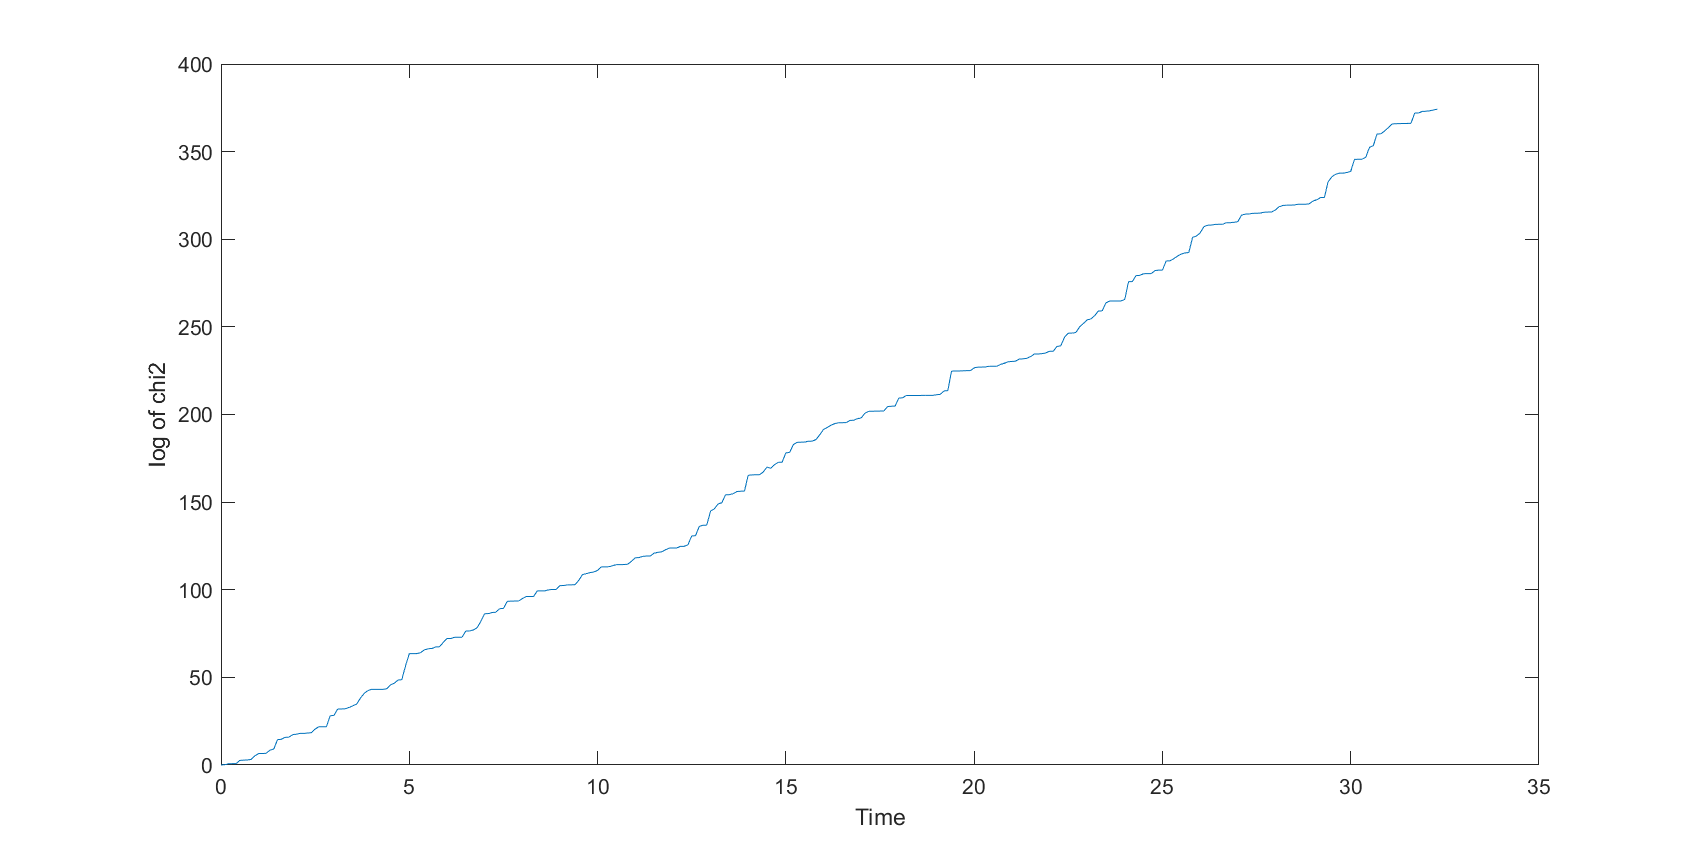
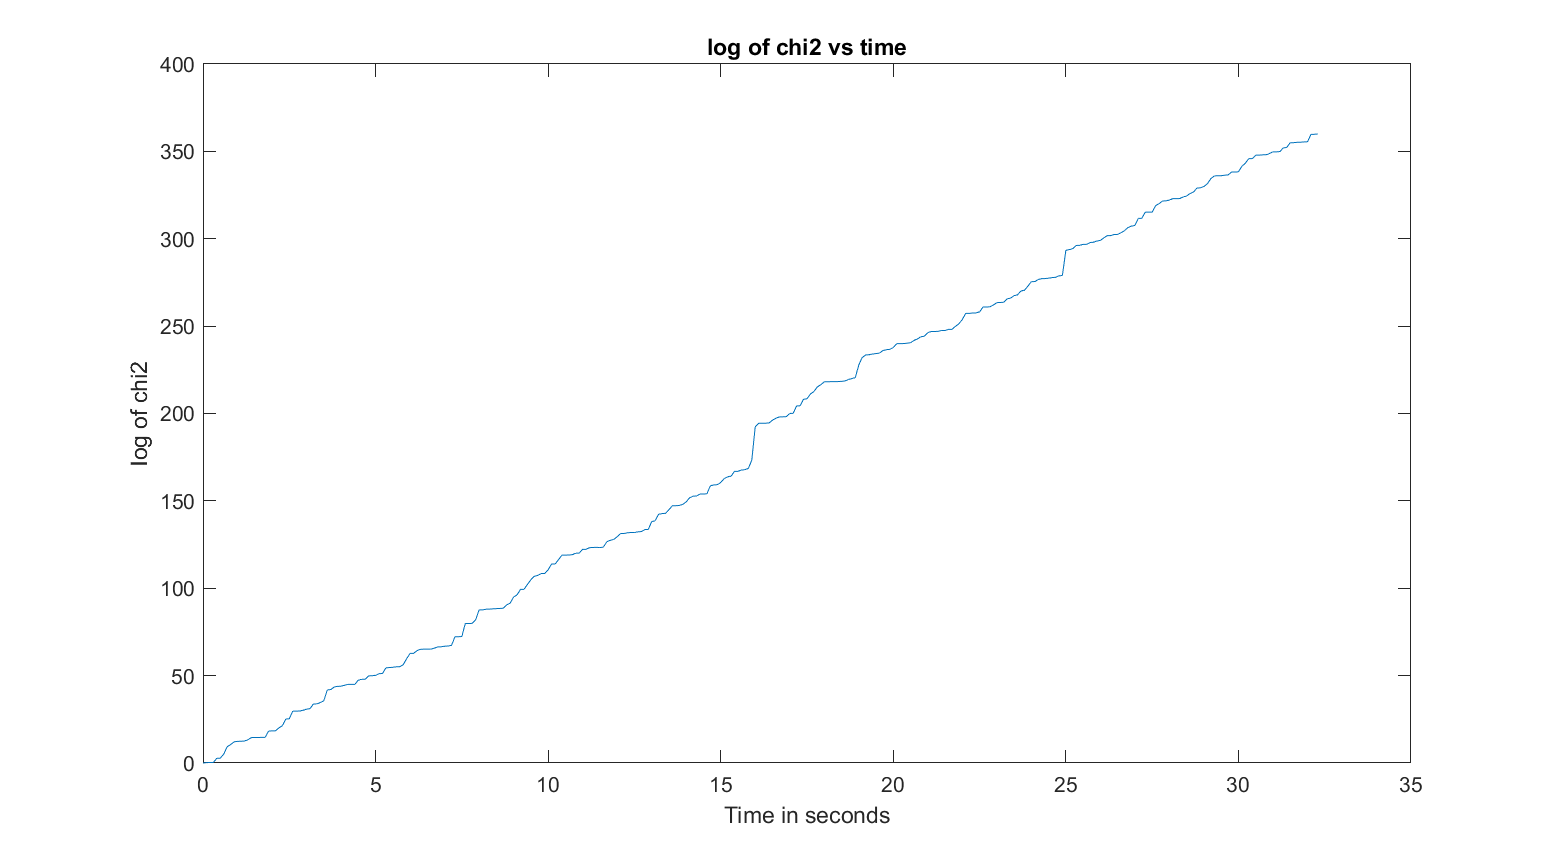
1b done: no chi2 values are returned by code might need to look into. 1c done. 1d done. 1e done. 2b done. bug that was in

diff --git a/+drivebot/+graph/LandmarkRangeBearingEdge.m b/+drivebot/+graph/LandmarkRangeBearingEdge.m
@@ -15,24 +15,48 @@ classdef LandmarkRangeBearingEdge < g2o.core.BaseBinaryEdge
         function initialize(this)
             % Q2b:
             % Complete implementation
-            warning('landmarkrangebearingedge:initialize:unimplemented', ...
-                'Implement the rest of this method for Q1b.');
+            %robot coordinates and rotaion
+            x = this.edgeVertices{1}.estimate();
+            %landmark coordinates
+            u = x(1) + this.z(1)*cos(this.z(2) + x(3));
+            v = x(2) + this.z(1)*sin(this.z(2) + x(3));
+            %setting estimate of landmark position
+            this.edgeVertices{2}.setEstimate([u;v])
+%             warning('landmarkrangebearingedge:initialize:unimplemented', ...
+%                 'Implement the rest of this method for Q1b.');
         end
         
         function computeError(this)
 
             % Q2b:
             % Complete implementation
-            warning('landmarkrangebearingedge:computeerror:unimplemented', ...
-                'Implement the rest of this method for Q1b.');
+            %Taken from
+            %COMP0130_22-23_Topic_02\Workshop_Topic_02_Part_02_-_Factor_Graphs_and_Estimation\Solution\+odometry_model_answer\LandmarkRangeBearingEdge.m
+            x = this.edgeVertices{1}.estimate();
+            dx = this.edgeVertices{2}.estimate() - x(1:2);
+            
+            this.errorZ(1) = norm(dx) - this.z(1);
+            this.errorZ(2) = g2o.stuff.normalize_theta(atan2(dx(2), dx(1)) - x(3) - this.z(2));
+%             warning('landmarkrangebearingedge:computeerror:unimplemented', ...
+%                 'Implement the rest of this method for Q1b.');
 
         end
         
         function linearizeOplus(this)
             % Q2b:
             % Complete implementation
-            warning('landmarkrangebearingedge:linearizeoplus:unimplemented', ...
-                'Implement the rest of this method for Q1b.');
+            %Taken from
+            %COMP0130_22-23_Topic_02\Workshop_Topic_02_Part_02_-_Factor_Graphs_and_Estimation\Solution\+odometry_model_answer\LandmarkRangeBearingEdge.m
+            x = this.edgeVertices{1}.estimate();
+            dx = this.edgeVertices{2}.estimate() - x(1:2);
+            r = norm(dx);
+            
+            this.J{1} = ...
+                [-dx(1)/r -dx(2)/r 0;
+                dx(2)/r^2 -dx(1)/r^2 -1];
+            this.J{2} = - this.J{1}(1:2, 1:2);
+%             warning('landmarkrangebearingedge:linearizeoplus:unimplemented', ...
+%                 'Implement the rest of this method for Q1b.');
         end        
     end
 end

diff --git a/q2_b.m b/q2_b.m
@@ -30,34 +30,57 @@ results = minislam.mainLoop(simulator, drivebotSLAMSystem);
 % Minimal output plots. For your answers, please provide titles and label
 % the axes.
 
-% Plot optimisation times
-minislam.graphics.FigureManager.getFigure('Optimization times');
-clf
-plot(results{1}.vehicleStateTime, results{1}.optimizationTimes, '*')
-hold on
 
-% Plot the error curves
-minislam.graphics.FigureManager.getFigure('Errors');
-clf
-plot(results{1}.vehicleStateTime, results{1}.vehicleStateHistory'-results{1}.vehicleStateHistory')
 
 % Plot covariance
 minislam.graphics.FigureManager.getFigure('Vehicle Covariances');
 clf
 plot(results{1}.vehicleStateTime, results{1}.vehicleCovarianceHistory')
 hold on
-
-% Plot errors
-minislam.graphics.FigureManager.getFigure('Errors');
-clf
-plot(results{1}.vehicleStateTime, results{1}.vehicleStateHistory'-results{1}.vehicleTrueStateHistory')
-hold on
-
-
+%labels and legend
+xlabel("Time in seconds")
+ylabel("Covariance")
+legend('x', 'y', 'phi', 'Location','best')
+title("Covariances vs time")
+%saving
+saveas(gcf, 'latex16', 'png');
 % Plot chi2 values
 minislam.graphics.FigureManager.getFigure('chi2 values');
 clf
 plot(results{1}.chi2Time, results{1}.chi2History)
 hold on
+%labels and legend
+xlabel("Time in seconds")
+ylabel("log of chi2")
+title("log of chi2 vs time")
+%saving
+saveas(gcf, 'latex17', 'png');
+
+
+% Plot optimisation times
+minislam.graphics.FigureManager.getFigure('Optimization times');
+clf
+plot(results{1}.vehicleStateTime, results{1}.optimizationTimes, '*')
+hold on
+xlabel("Time axis")
+ylabel("Time taken for optimisation seconds")
+title("optimisation times vs time")
+saveas(gcf, 'latex18', 'png');
+
+
+% % Plot errors
+% minislam.graphics.FigureManager.getFigure('Errors');
+% clf
+% plot(results{1}.vehicleStateTime, results{1}.vehicleStateHistory'-results{1}.vehicleTrueStateHistory')
+% hold on
+% %labels and legend
+% xlabel("Time")
+% ylabel("Error")
+% legend('x', 'y', 'phi', 'Location','best')
+% %saving
+% saveas(gcf, 'latex19', 'png');
+
+
+
 
 

diff --git a/+drivebot/DriveBotSLAMSystem.m b/+drivebot/DriveBotSLAMSystem.m
@@ -326,8 +326,24 @@ classdef DriveBotSLAMSystem < minislam.slam.SLAMSystem
 
                 % Q2b:
                 % Complete the implementation
-                warning('drivebotslamsystem:handlelandmarkobservationevent:unimplemented', ...
-                    'Implement the rest of this method for Q2b.');
+                %create edge
+                landmarkRangeBearingEdge = drivebot.graph.LandmarkRangeBearingEdge();
+                %link to vertices
+                landmarkRangeBearingEdge.setVertex(1, this.currentVehicleVertex);
+                landmarkRangeBearingEdge.setVertex(2, landmarkVertex);
+                %set measurement and info
+                landmarkRangeBearingEdge.setMeasurement(z);
+                landmarkRangeBearingEdge.setInformation(inv(event.covariance));
+                %call initialize if we've just set up a new landmark so
+                %that we estimate the coordinates
+                if(newVertexCreated)
+                    landmarkRangeBearingEdge.initialize();
+                end
+                
+
+
+%                 warning('drivebotslamsystem:handlelandmarkobservationevent:unimplemented', ...
+%                     'Implement the rest of this method for Q2b.');
                 
                 this.graph.addEdge(landmarkRangeBearingEdge);
             end

diff --git a/q1_e.m b/q1_e.m
@@ -39,8 +39,9 @@ minislam.graphics.FigureManager.getFigure('Optimization times');
 clf
 plot(results{1}.vehicleStateTime, results{1}.optimizationTimes, '*')
 hold on
-xlabel("Time axis")
+xlabel("Time in seconds")
 ylabel("Time taken for optimisation seconds")
+title("Optimisation times vs time")
 saveas(gcf, 'latex12_aftercompass', 'png');
 
 % Plot covariance
@@ -49,9 +50,10 @@ clf
 plot(results{1}.vehicleStateTime, results{1}.vehicleCovarianceHistory')
 hold on
 %labels and legend
-xlabel("Time")
+xlabel("Time in seconds")
 ylabel("Covariance")
 legend('x', 'y', 'phi', 'Location','best')
+title("Covariances vs time")
 %saving
 saveas(gcf, 'latex13_aftercompass', 'png');
 
@@ -61,9 +63,10 @@ clf
 plot(results{1}.vehicleStateTime, results{1}.vehicleStateHistory'-results{1}.vehicleTrueStateHistory')
 hold on
 %labels and legend
-xlabel("Time")
+xlabel("Time in seconds")
 ylabel("Error")
 legend('x', 'y', 'phi', 'Location','best')
+title("Errors vs time")
 %saving
 saveas(gcf, 'latex14_aftercompass', 'png');
 
@@ -73,8 +76,9 @@ clf
 plot(results{1}.chi2Time, results{1}.chi2History)
 hold on
 %labels and legend
-xlabel("Time")
+xlabel("Time in seconds")
 ylabel("log of chi2")
+title("log of chi2 vs time")
 %saving
 saveas(gcf, 'latex15_aftercompass', 'png');
 

diff --git a/q1_c.m b/q1_c.m
@@ -45,8 +45,9 @@ minislam.graphics.FigureManager.getFigure('Optimization times');
 clf
 plot(results{1}.vehicleStateTime, results{1}.optimizationTimes, '*')
 hold on
-xlabel("Time step axis")
+xlabel("Time in seconds")
 ylabel("Time taken for optimisation seconds")
+title("Optimisation times vs time")
 saveas(gcf, 'latex4_after', 'png');
 
 % Plot the error curves
@@ -61,9 +62,10 @@ clf
 plot(results{1}.vehicleStateTime, results{1}.vehicleCovarianceHistory')
 hold on
 %labels and legend
-xlabel("Time")
+xlabel("Time in seconds")
 ylabel("Covariance")
 legend('x', 'y', 'phi', 'Location','best')
+title("Covariances vs time")
 %saving
 saveas(gcf, 'latex5_after', 'png');
 
@@ -73,9 +75,10 @@ clf
 plot(results{1}.vehicleStateTime, results{1}.vehicleStateHistory'-results{1}.vehicleTrueStateHistory')
 hold on
 %labels and legend
-xlabel("Time")
+xlabel("Time in seconds")
 ylabel("Error")
 legend('x', 'y', 'phi', 'Location','best')
+title("Errors vs time")
 %saving
 saveas(gcf, 'latex6_after', 'png');
 
@@ -85,8 +88,9 @@ clf
 plot(results{1}.chi2Time, log(results{1}.chi2History))
 hold on
 %labels and legend
-xlabel("Time")
+xlabel("Time in seconds")
 ylabel("log of chi2")
+title("log of chi2 vs time")
 %saving
 saveas(gcf, 'latex7_after', 'png');
 

diff --git a/+drivebot/+graph/VehicleKinematicsEdge.m b/+drivebot/+graph/VehicleKinematicsEdge.m
@@ -71,8 +71,9 @@ classdef VehicleKinematicsEdge < g2o.core.BaseBinaryEdge
             
             % Compute the error. (jusst by rearranging vehicle process
             % model)
-            this.errorZ = Mi * (this.edgeVertices{2}.x ...
-                - priorX)/this.dT - this.z;
+            dx = this.edgeVertices{2}.x - priorX;
+            dx(3) = g2o.stuff.normalize_theta(dx(3)); %wrangle to -pi, pi
+            this.errorZ = Mi * (dx)/this.dT - this.z;
             
             % Wrap the heading error to -pi to pi
             this.errorZ(3) = g2o.stuff.normalize_theta(this.errorZ(3));
@@ -94,6 +95,7 @@ classdef VehicleKinematicsEdge < g2o.core.BaseBinaryEdge
             c = cos(priorX(3));
             s = sin(priorX(3));
             dx = this.edgeVertices{2}.x - priorX;
+            dx(3) = g2o.stuff.normalize_theta(dx(3));
             Mi = [c s 0;
                 -s c 0;
                 0 0 1];

diff --git a/q1_d.m b/q1_d.m
@@ -46,9 +46,10 @@ clf
 plot(results{1}.vehicleStateTime, results{1}.vehicleCovarianceHistory')
 hold on
 %labels and legend
-xlabel("Time")
+xlabel("Time in seconds")
 ylabel("Covariance")
 legend('x', 'y', 'phi', 'Location','best')
+title("Covariances vs time")
 %saving
 saveas(gcf, 'latex10', 'png');
 
@@ -58,9 +59,10 @@ clf
 plot(results{1}.vehicleStateTime, results{1}.vehicleStateHistory'-results{1}.vehicleTrueStateHistory')
 hold on
 %labels and legend
-xlabel("Time")
+xlabel("Time in seconds")
 ylabel("Error")
 legend('x', 'y', 'phi', 'Location','best')
+title("Errors vs time")
 %saving
 saveas(gcf, 'latex11', 'png');
 

diff --git a/q1_b.m b/q1_b.m
@@ -45,6 +45,7 @@ plot(results{1}.vehicleStateTime, results{1}.vehicleStateHistory'-results{1}.veh
 xlabel("Time")
 ylabel("Error")
 legend('x', 'y', 'phi', 'Location','best')
+title("Error vs time")
 %saving
 saveas(gcf, 'latex2', 'png');
 
@@ -55,6 +56,7 @@ plot(results{1}.vehicleStateTime, results{1}.vehicleCovarianceHistory')
 xlabel("Time")
 ylabel("Covariances")
 legend('x', 'y', 'phi', 'Location','best')
+title("Covariances vs time")
 %saving
 saveas(gcf, 'latex3', 'png');
 hold on
